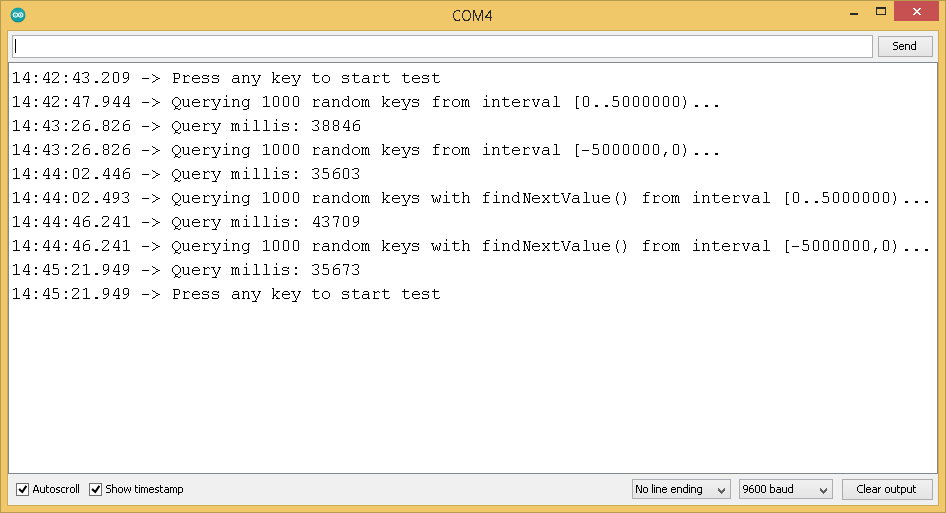
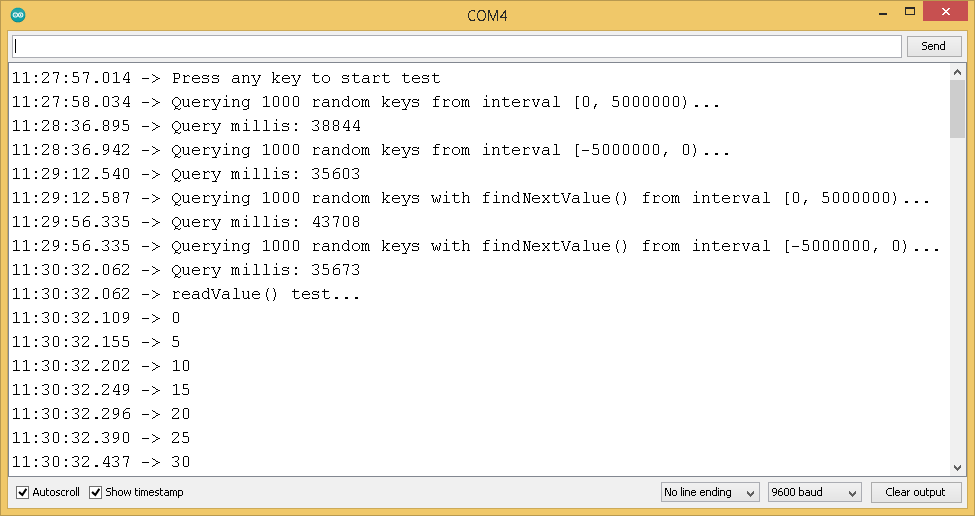
readValue(): refactoring

diff --git a/src/uCDB.cpp b/src/uCDB.cpp
@@ -207,16 +207,20 @@ int uCDB::readValue() {
 }
 
 int uCDB::readValue(void *buff, unsigned int byteNum) {
-  if (state != KEY_FOUND) {
-    return -1;
+  int br;
+
+  if (state == KEY_FOUND) {
+    if (byteNum > valueBytesAvail) {
+      byteNum = valueBytesAvail;
+    }
+    br = cdb.read(buff, byteNum);
+    if (br > 0) {
+      valueBytesAvail -= br;  
+    }
+    return br;
   }
 
-  if (byteNum > valueBytesAvail) {
-    byteNum = valueBytesAvail;
-  }
-  valueBytesAvail -= byteNum;
-
-  return cdb.read(buff, byteNum);
+  return -1;
 }
 
 cdbResult uCDB::close() {

diff --git a/README.md b/README.md
@@ -22,11 +22,15 @@ int readValue(void *buff, unsigned int byteNum);
 cdbResult close();
 ```    
 
-## Usage example
+## Usage examples
 
 `examples` folder contains `airports.ino` Arduino IDE sketch, Python converter `airports.py` script and data files.
 
 <img src="https://github.com/JulStrat/uCDB/blob/master/examples/airports/airports.png">
+
+`benchmark` sketch.
+
+<img src="https://github.com/JulStrat/uCDB/blob/master/examples/benchmark/benchmark.png">
 
 ## License
 
